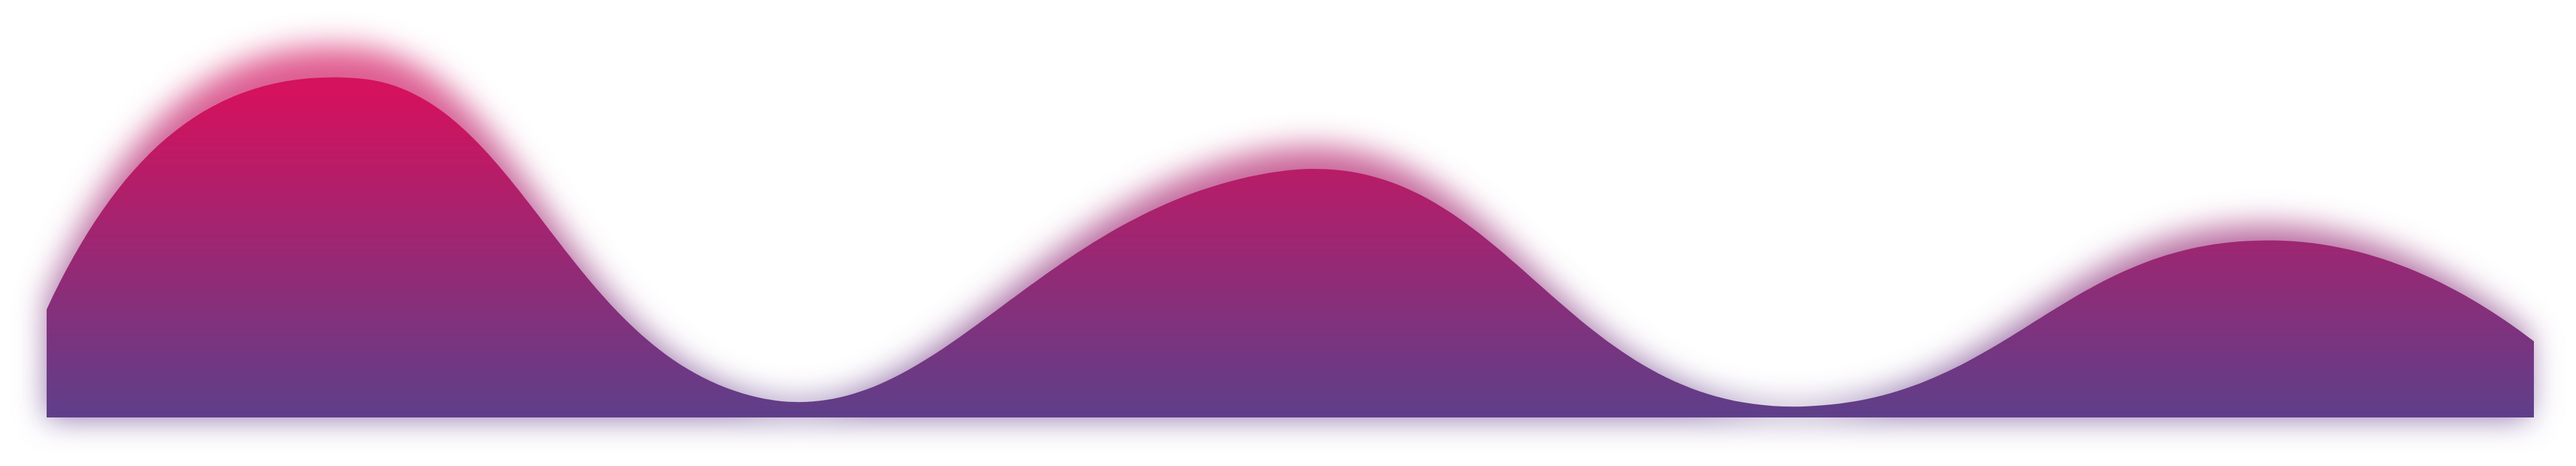
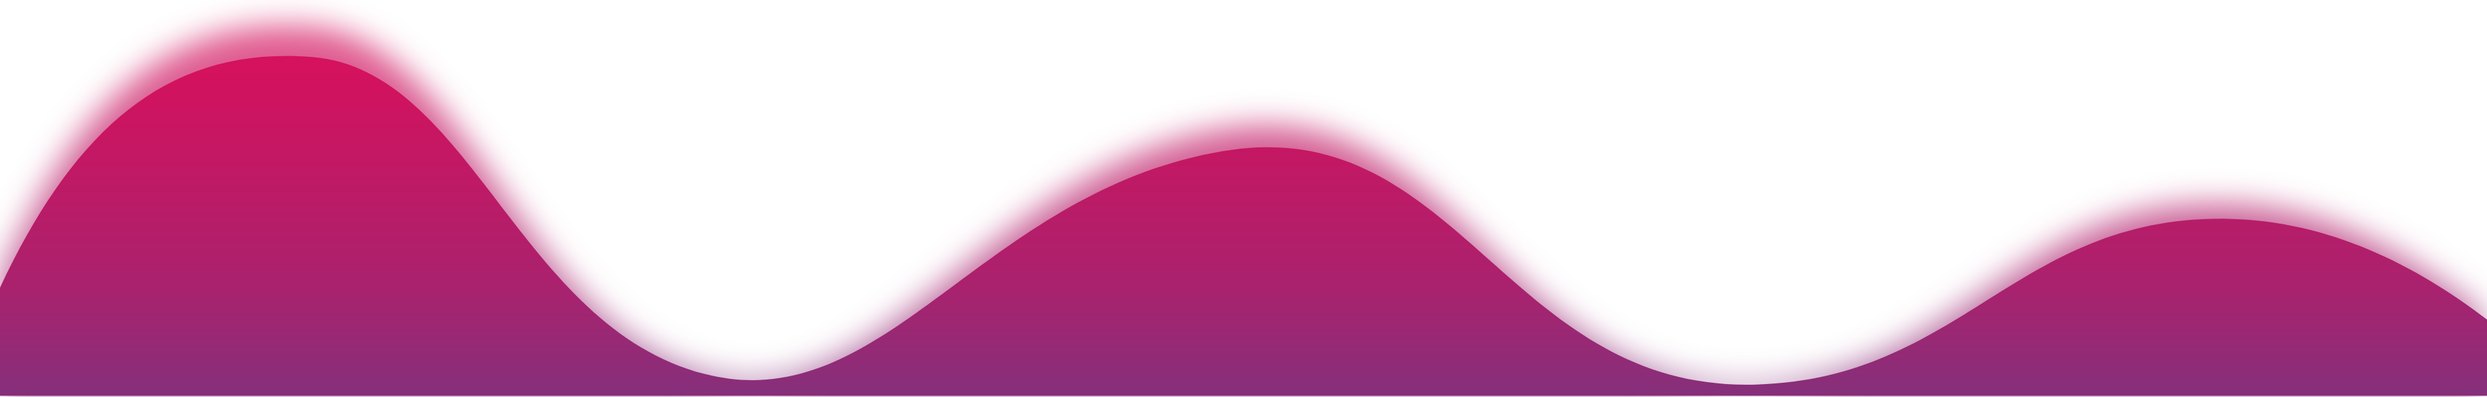
home header 1920 px finish

diff --git a/css/style.css b/css/style.css
@@ -26,6 +26,9 @@ header{
     width: 100%;
     height: 1080px;
     overflow: hidden;
+    display: flex;
+    align-items: center;
+    justify-content: center;
 }
 .con_bg{
     position: absolute;
@@ -74,14 +77,18 @@ header{
     top: 540px;
     left: 5.72vw;
 }
-.con_headertop{
+.con_htop{
+    position: absolute;
+    top:0;
     width: 100%;
     height: 150px;
-    display: grid;
-    grid-template-columns: 200px auto 300px;
+    display: flex;
+    /* grid-template-columns: 200px auto 300px;
     grid-template-rows: 100%;
+    align-items: center; */
+    justify-content: space-between;
     align-items: center;
-    justify-items: center;
+    padding: 0 5vw;
 }
 .a_logo{
     width: 70px;
@@ -92,6 +99,11 @@ header{
 }
 .img_music{
     width: 40px;
+}
+nav{
+    position: absolute;
+    left: 50%;
+    transform: translateX(-50%);
 }
 nav,ul{
     display: flex;
@@ -116,14 +128,17 @@ nav li{
     align-items: center;
 }
 .t_on{
-    color: #5A2277;
-    width: 46px;
-    background-color: #fff;
+    width: 55px;
     text-align: center;
+    letter-spacing: 3px;
+}
+.on_current{
+    color: #5A2277;
+    background-color: #fff;
     font-weight: 600;
 }
 .t_off{
-    width: 46px;
+    width: 55px;
     text-align: center;
     letter-spacing: 3px;
 }
@@ -132,4 +147,68 @@ nav li{
     height: 30px;
     background-color: #fff;
     margin:0 15px;
+}
+
+/* header ::content */
+.con_hcenter{
+    height: 510px;
+    display: flex;
+    justify-content: center;
+    align-items: center;
+    margin-top: -60px;
+}
+.img_linede{
+    width: 50px;
+}
+.con_hccontent{
+    width: 1455px;
+    height: 510px;
+    border:1px solid white;
+    display: flex;
+    flex-direction: column;
+    align-items: center;
+    justify-content: center;
+}
+.img_rlinede{
+    align-self: flex-end;
+}
+.img_llinede{
+    align-self: flex-start;
+}
+.img_hclogo_bg{
+    position: absolute;
+    width: 1350px;
+}
+.t_hc{
+    height: 10%;
+    font-size: 26px;
+    letter-spacing: 3px;
+    text-align: center;
+}
+.con_hclogo{
+    width: 745px;
+    height: 90%;
+    display: grid;
+    grid-template-rows: 80% auto;
+    grid-row-gap: 20px;
+    align-items: end;
+}
+.img_hclogo{
+    width: 650px;
+}
+.img_hclogoline{
+    width: 664px;
+    align-self: start;
+    justify-self: end;
+}
+.img_wave{
+    position: absolute;
+    width: 100%;
+    bottom: 0;
+    transform: translateY(60%);
+}
+.img_harrow{
+    position: absolute;
+    width: 35px;
+    bottom: -125px;
 }

diff --git a/index.html b/index.html
@@ -20,7 +20,7 @@
                 <img class="img_rbglogo" src="image/home/rtlogo.png">
                 <img class="img_lbglogo" src="image/home/lblogo.png">
             </div>
-            <div class="con_headertop">
+            <div class="con_htop">
                 <a class="a_logo" href="index.html">
                     <img class="img_logo" src="image/home/nav_logo.png" alt="">
                 </a>
@@ -33,13 +33,27 @@
                 </nav>
                 <div class="con_audio">
                     <div class="con_aucontroller">
-                        <div class="t_on">ON</div>
+                        <div class="t_on on_current">ON</div>
                         <div class="h_line"></div>
                         <div class="t_off">OFF</div>
                     </div>
                     <img class="img_music" src="/image/home/music.png" alt="">
                 </div>
             </div>
+            <div class="con_hcenter">
+                <img class="img_linede img_rlinede" src="image/home/linede.png" alt="">
+                <div class="con_hccontent">
+                    <img class="img_hclogo_bg" src="image/home/lightlogo.png" alt="">
+                    <div class="con_hclogo">
+                        <img class="img_hclogo" src="image/home/logo.png" alt="">
+                        <img class="img_hclogoline" src="image/home/logoline.png" alt="">
+                    </div>
+                    <div class="t_hc">Music Introduction</div>
+                </div>
+                <img class="img_linede img_llinede" src="image/home/linede.png" alt="">
+            </div>
+            <img class="img_wave" src="image/home/wave.png" alt="">
+            <img class="img_harrow" src="image/home/arrow.png" alt="">
         </header>
         <section>
             <!-- 音樂介紹連結 -->
